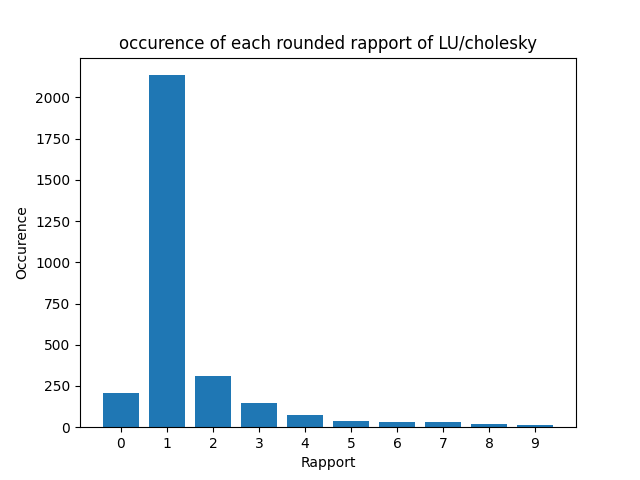
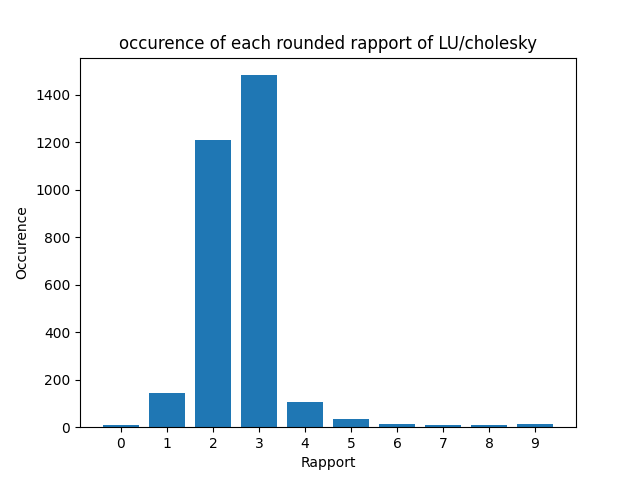
pls

diff --git a/Devoir2/LU.py b/Devoir2/LU.py
@@ -11,7 +11,7 @@ def LU_decomposition(A):
     U = np.zeros((n, n))    
 
 
-    for k in range(n):
+    for k in nb.prange(n):
         U[k][k] = A[k][k]
         for i in nb.prange(k + 1, n):
             L[i][k] = A[i][k] / U[k][k]
@@ -44,10 +44,10 @@ def Cholesky_decomposition(A):
     n = len(A)
     L = np.zeros((n, n))
 
-    for i in range(n):
-        for j in range(i + 1):
+    for i in nb.prange(n):
+        for j in nb.prange(i + 1):
             s = 0
-            for k in range(j):
+            for k in nb.prange(j):
                 s += L[i][k] * L[j][k]
             if i == j:
                 L[i][j] = np.sqrt(A[i][i] - s)
@@ -150,4 +150,4 @@ def hist_rapport_LU_cholesky():
     #plt.show()
 
 #plot_LU_decomposition()
-#hist_rapport_LU_cholesky()
+hist_rapport_LU_cholesky()
